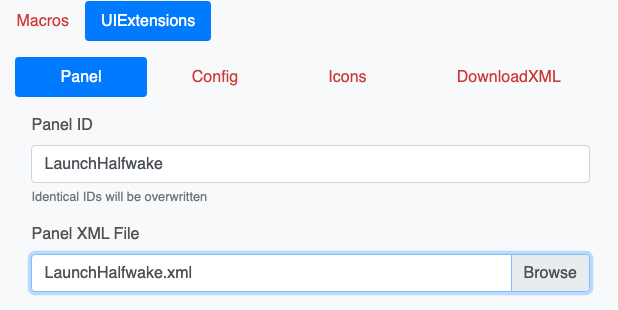
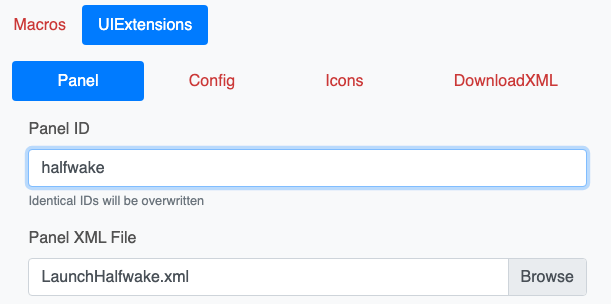
updates to section 4

diff --git a/docs/wx1_1451_part_4.md b/docs/wx1_1451_part_4.md
@@ -876,7 +876,7 @@ It should look something like this:
     To update more than 1 panel use the Customizations->UIExtensions->Config deployment panel feature.
     This allows the upload of xml files that contain multiple panels.
 
-4.11.4 In the panel ID text box enter LaunchHalfwake as the panel ID. Using the Browse file picker select your 
+4.11.4 In the panel ID text box enter **halfwake** as the panel ID. Using the Browse file picker select your 
 xml file you created in the last step.
 
 ![4-11-4.png](assets%2Fwx1_1451_part_4%2F4-11-4.png)
@@ -893,7 +893,7 @@ xml file you created in the last step.
 
 4.11.9 The Message Console will now appear, you can follow along the deployment process.
 
-4.11.10 Its test time. The Halfwake button should now appear on your homescreen of your device. 
+4.11.10 Its test time. The halfwake button should now appear on your home screen of your device. 
 Pressing the button should place your endpoint into the halfwake state.
 
 ### 4.12 Deploy a local user admin using CE-Deploy
